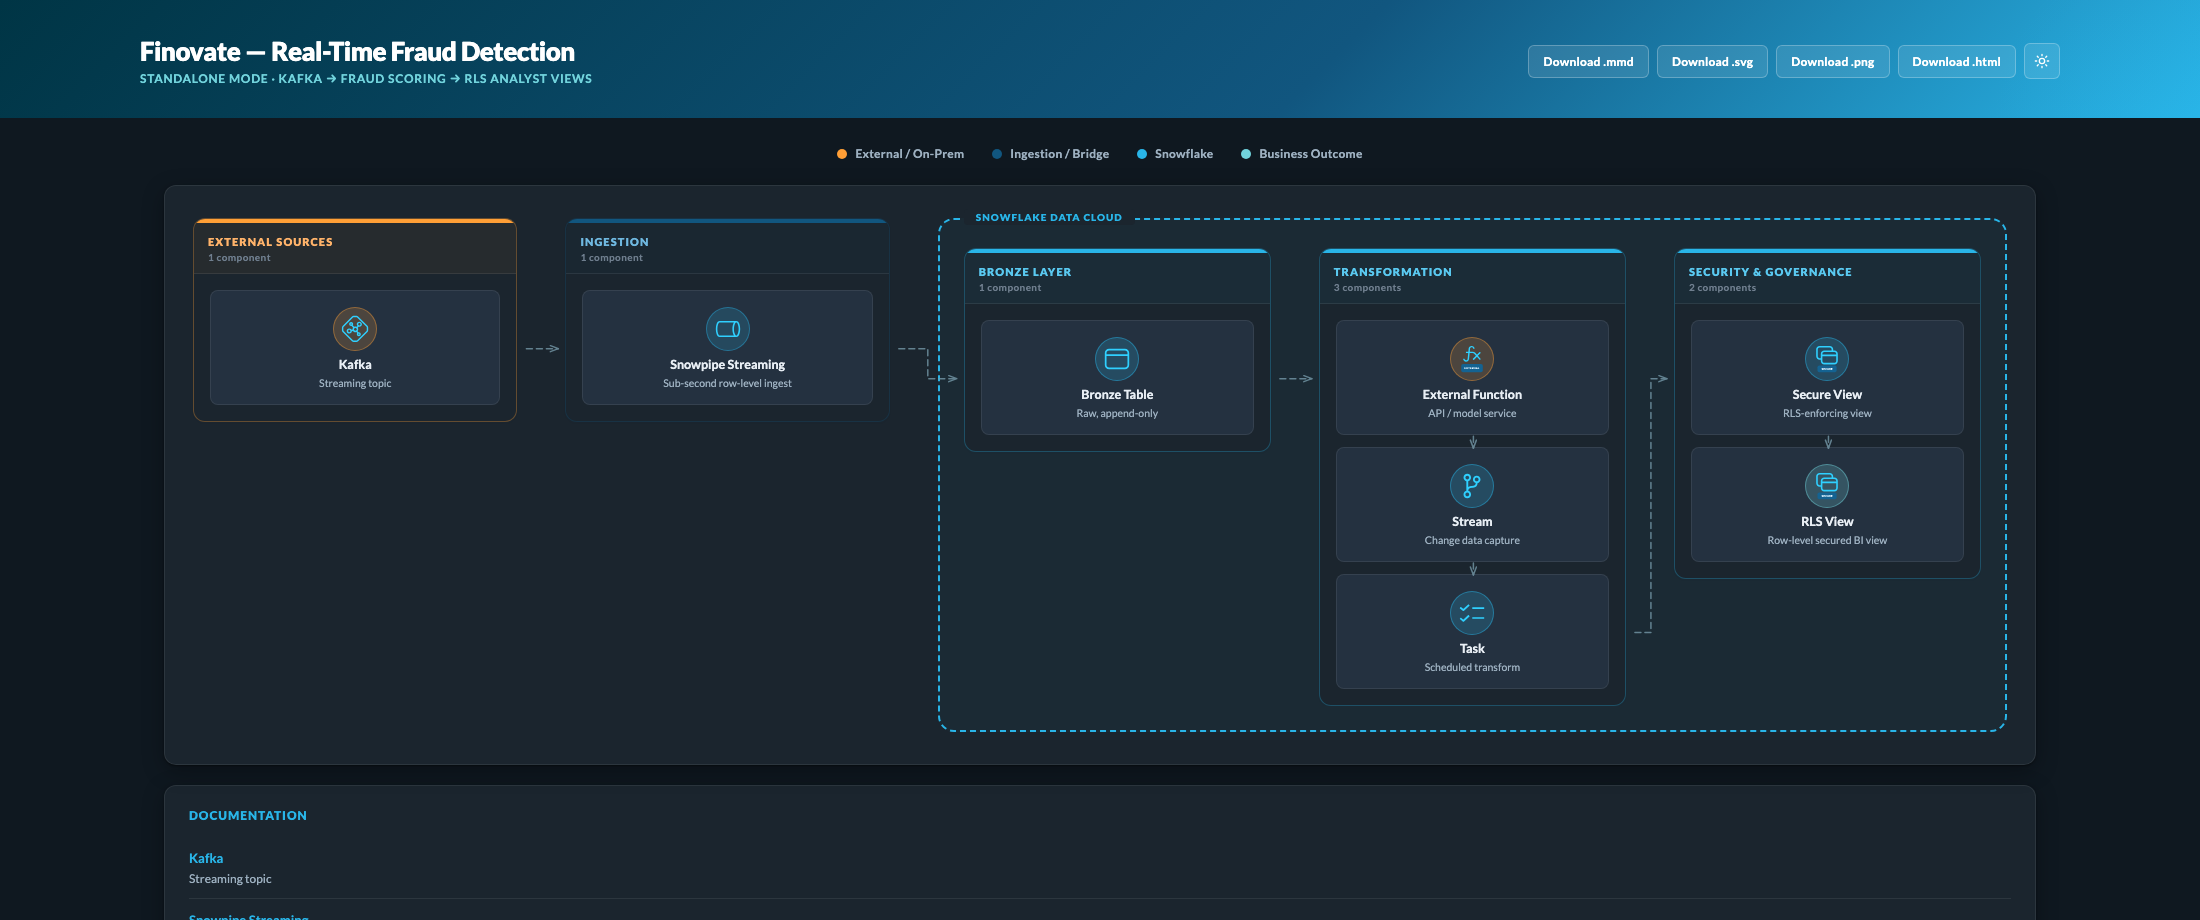
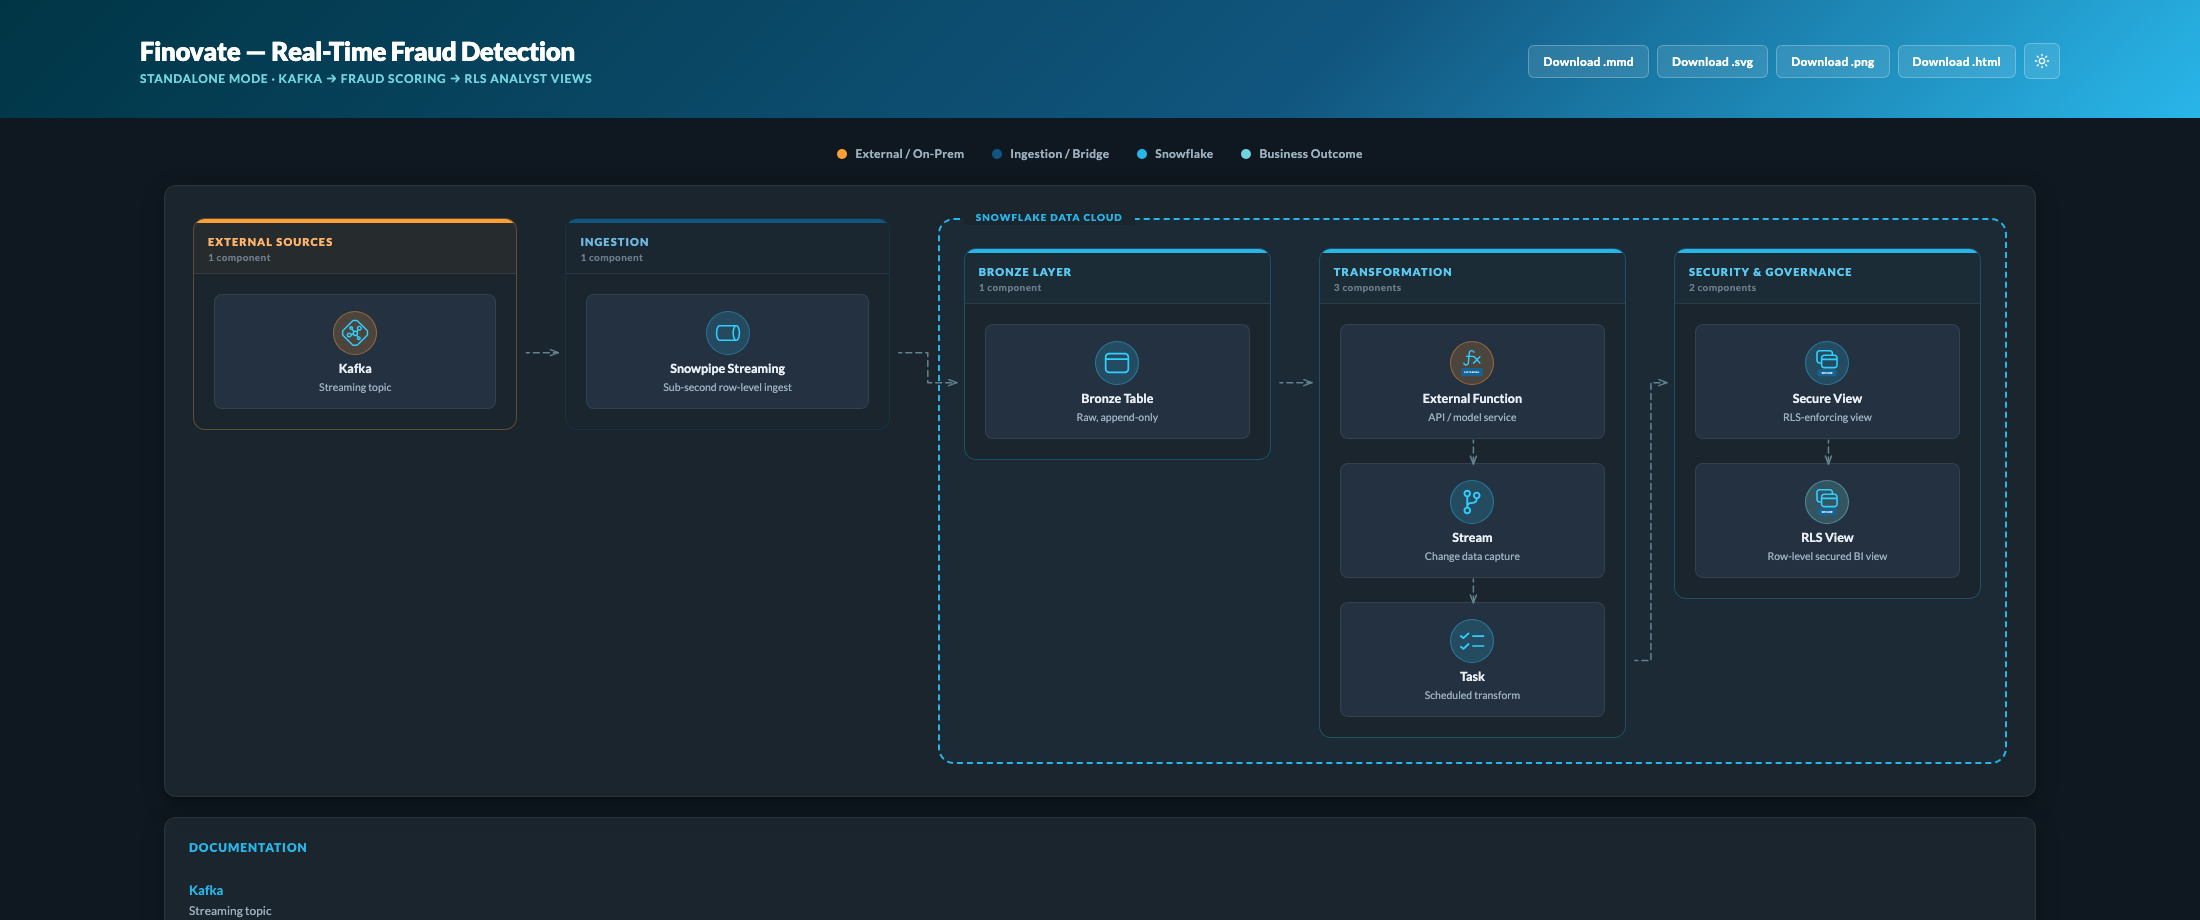
style(skills): increase intra-zone node spacing to 24px gap + 20px padding
Nodes within a zone now have 24px gap (up from 12px) and 20px body
padding (up from 16px), giving more visual breathing room between
components in the same layer.

diff --git a/skills/snowflake-architecture-diagram/assets/viewer/index.html b/skills/snowflake-architecture-diagram/assets/viewer/index.html
@@ -341,10 +341,10 @@
     letter-spacing: 0.04em;
   }
   .zone-body {
-    padding: 16px;
+    padding: 20px;
     display: grid;
     grid-template-columns: 1fr;
-    gap: 12px;
+    gap: 24px;
     flex: 1;
     align-content: start;
   }

diff --git a/skills/snowflake-architecture-diagram/test_outputs/personas/maya_v5.html b/skills/snowflake-architecture-diagram/test_outputs/personas/maya_v5.html
@@ -341,10 +341,10 @@
     letter-spacing: 0.04em;
   }
   .zone-body {
-    padding: 16px;
+    padding: 20px;
     display: grid;
     grid-template-columns: 1fr;
-    gap: 12px;
+    gap: 24px;
     flex: 1;
     align-content: start;
   }

diff --git a/skills/snowflake-architecture-diagram/test_outputs/personas/raj_v5.html b/skills/snowflake-architecture-diagram/test_outputs/personas/raj_v5.html
@@ -341,10 +341,10 @@
     letter-spacing: 0.04em;
   }
   .zone-body {
-    padding: 16px;
+    padding: 20px;
     display: grid;
     grid-template-columns: 1fr;
-    gap: 12px;
+    gap: 24px;
     flex: 1;
     align-content: start;
   }

diff --git a/skills/snowflake-architecture-diagram/test_outputs/personas/sarah_v5.html b/skills/snowflake-architecture-diagram/test_outputs/personas/sarah_v5.html
@@ -341,10 +341,10 @@
     letter-spacing: 0.04em;
   }
   .zone-body {
-    padding: 16px;
+    padding: 20px;
     display: grid;
     grid-template-columns: 1fr;
-    gap: 12px;
+    gap: 24px;
     flex: 1;
     align-content: start;
   }